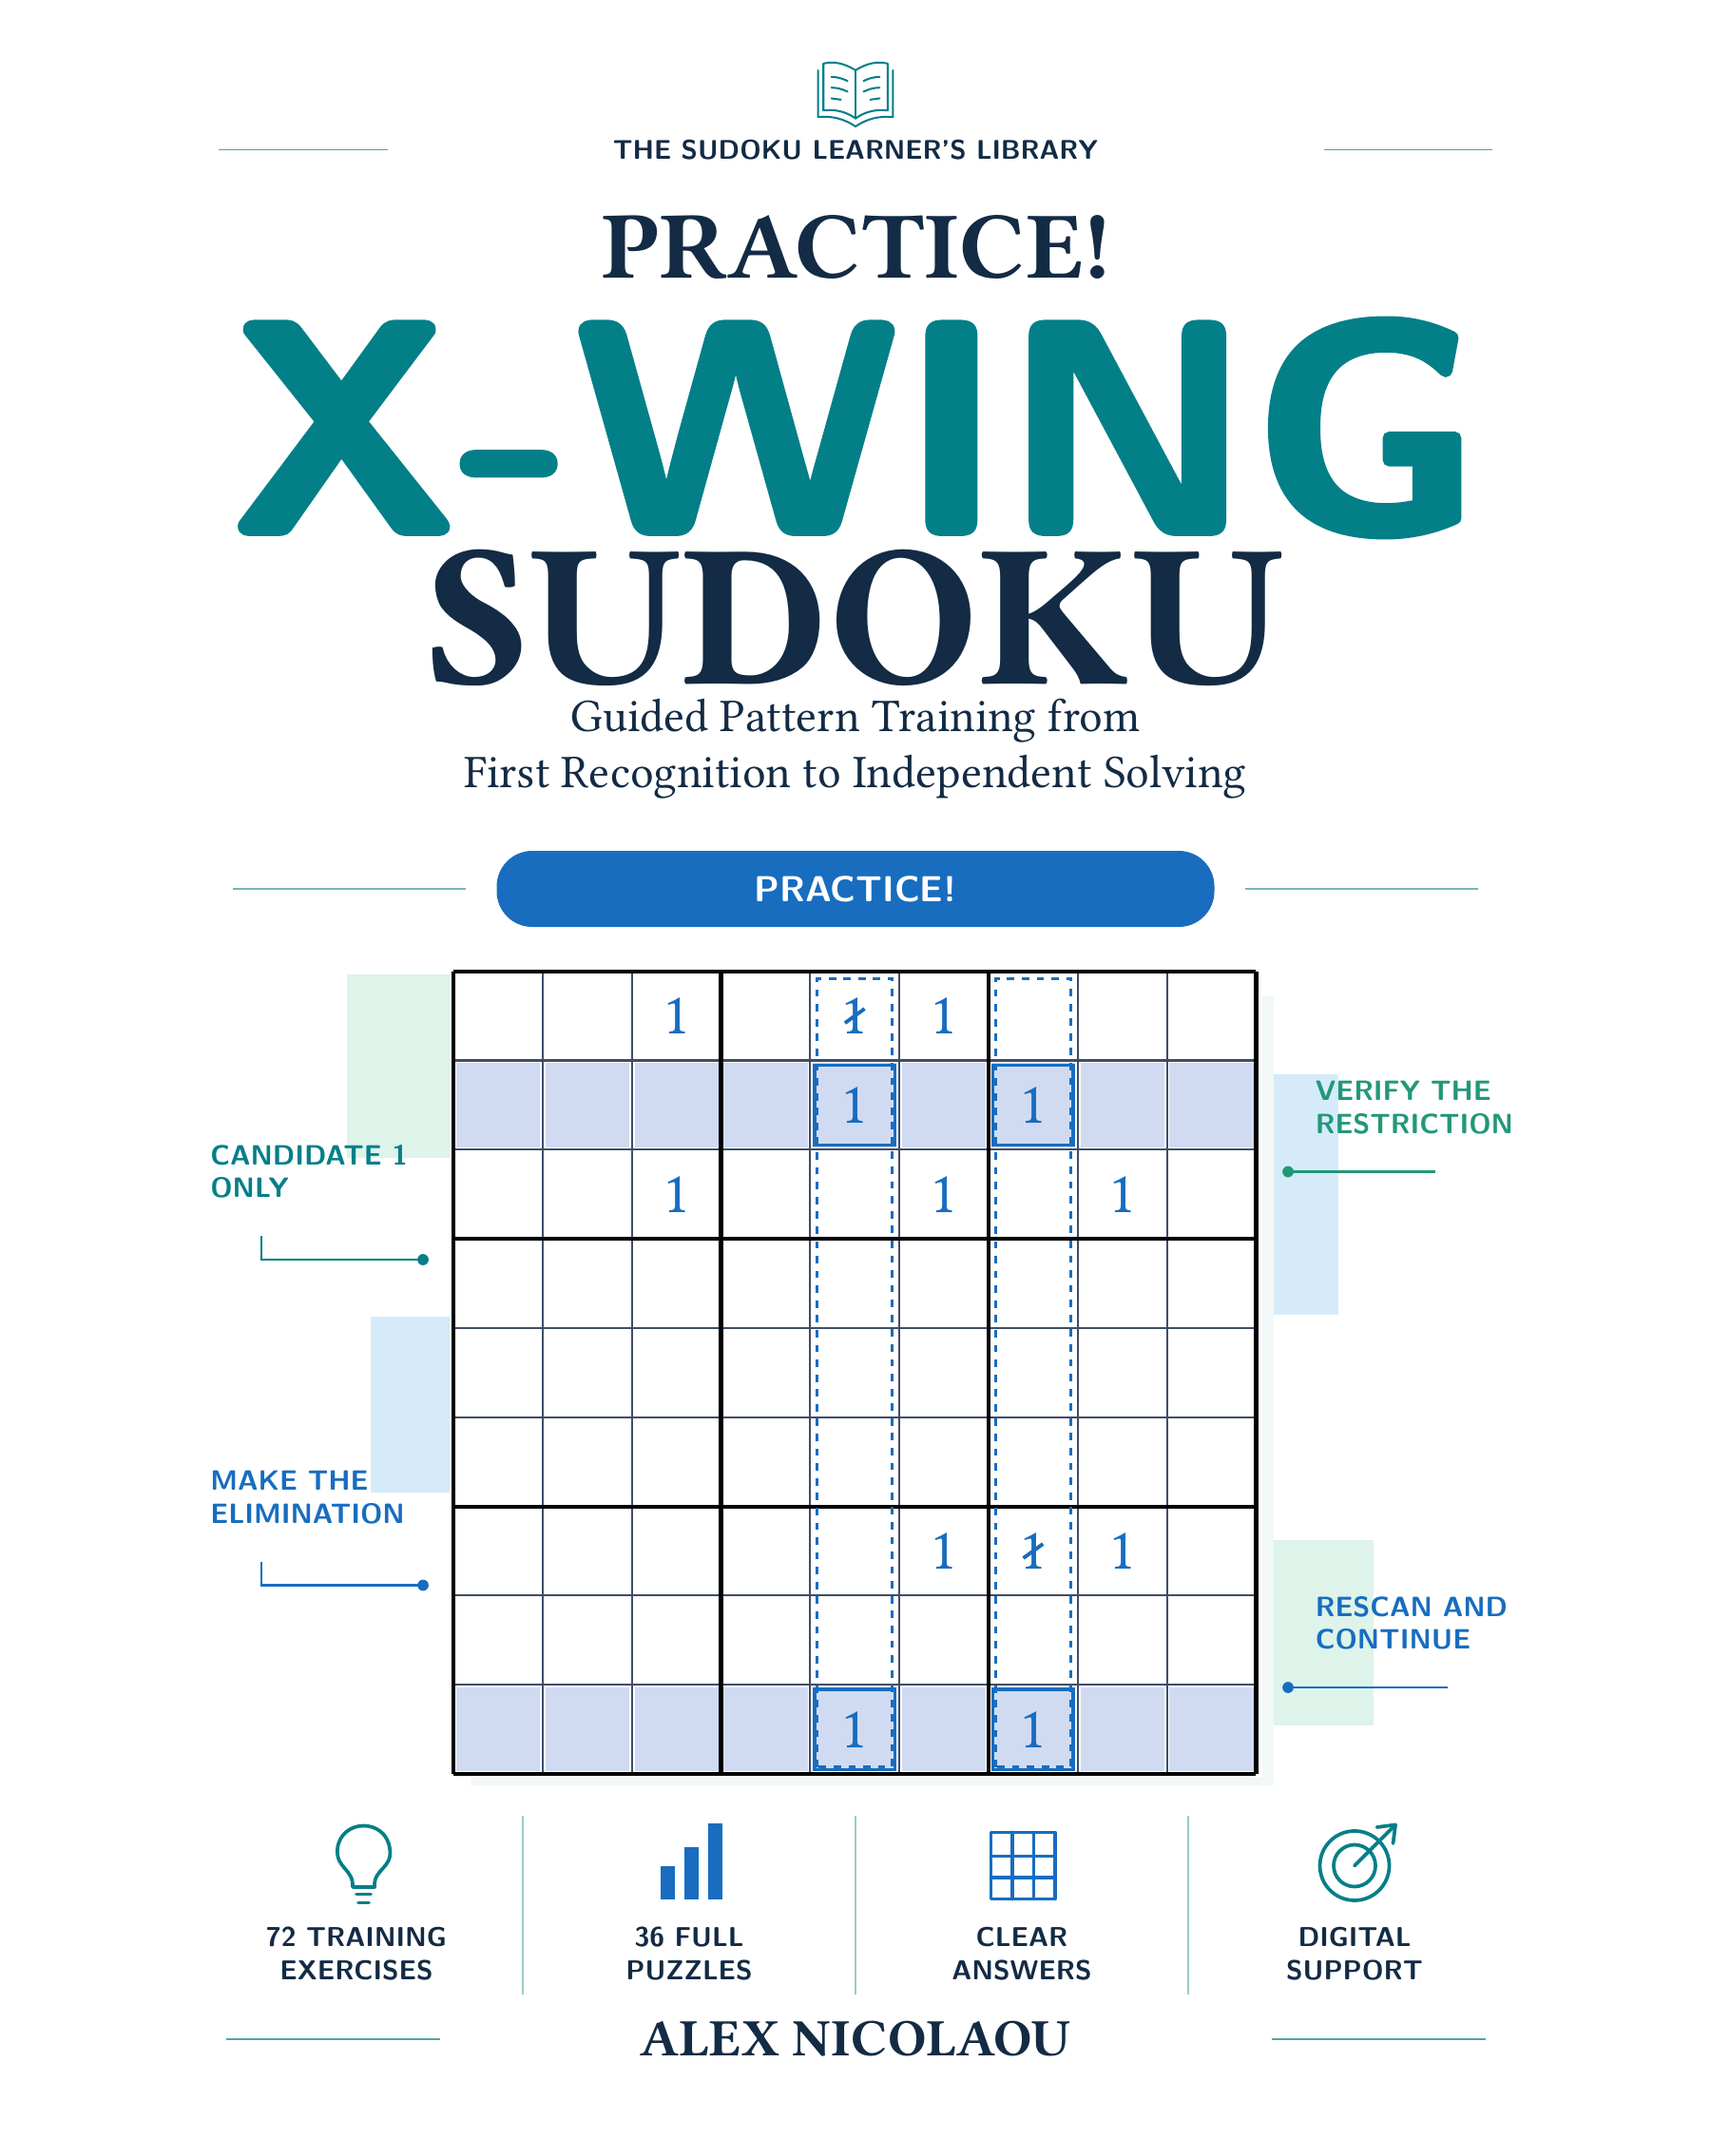
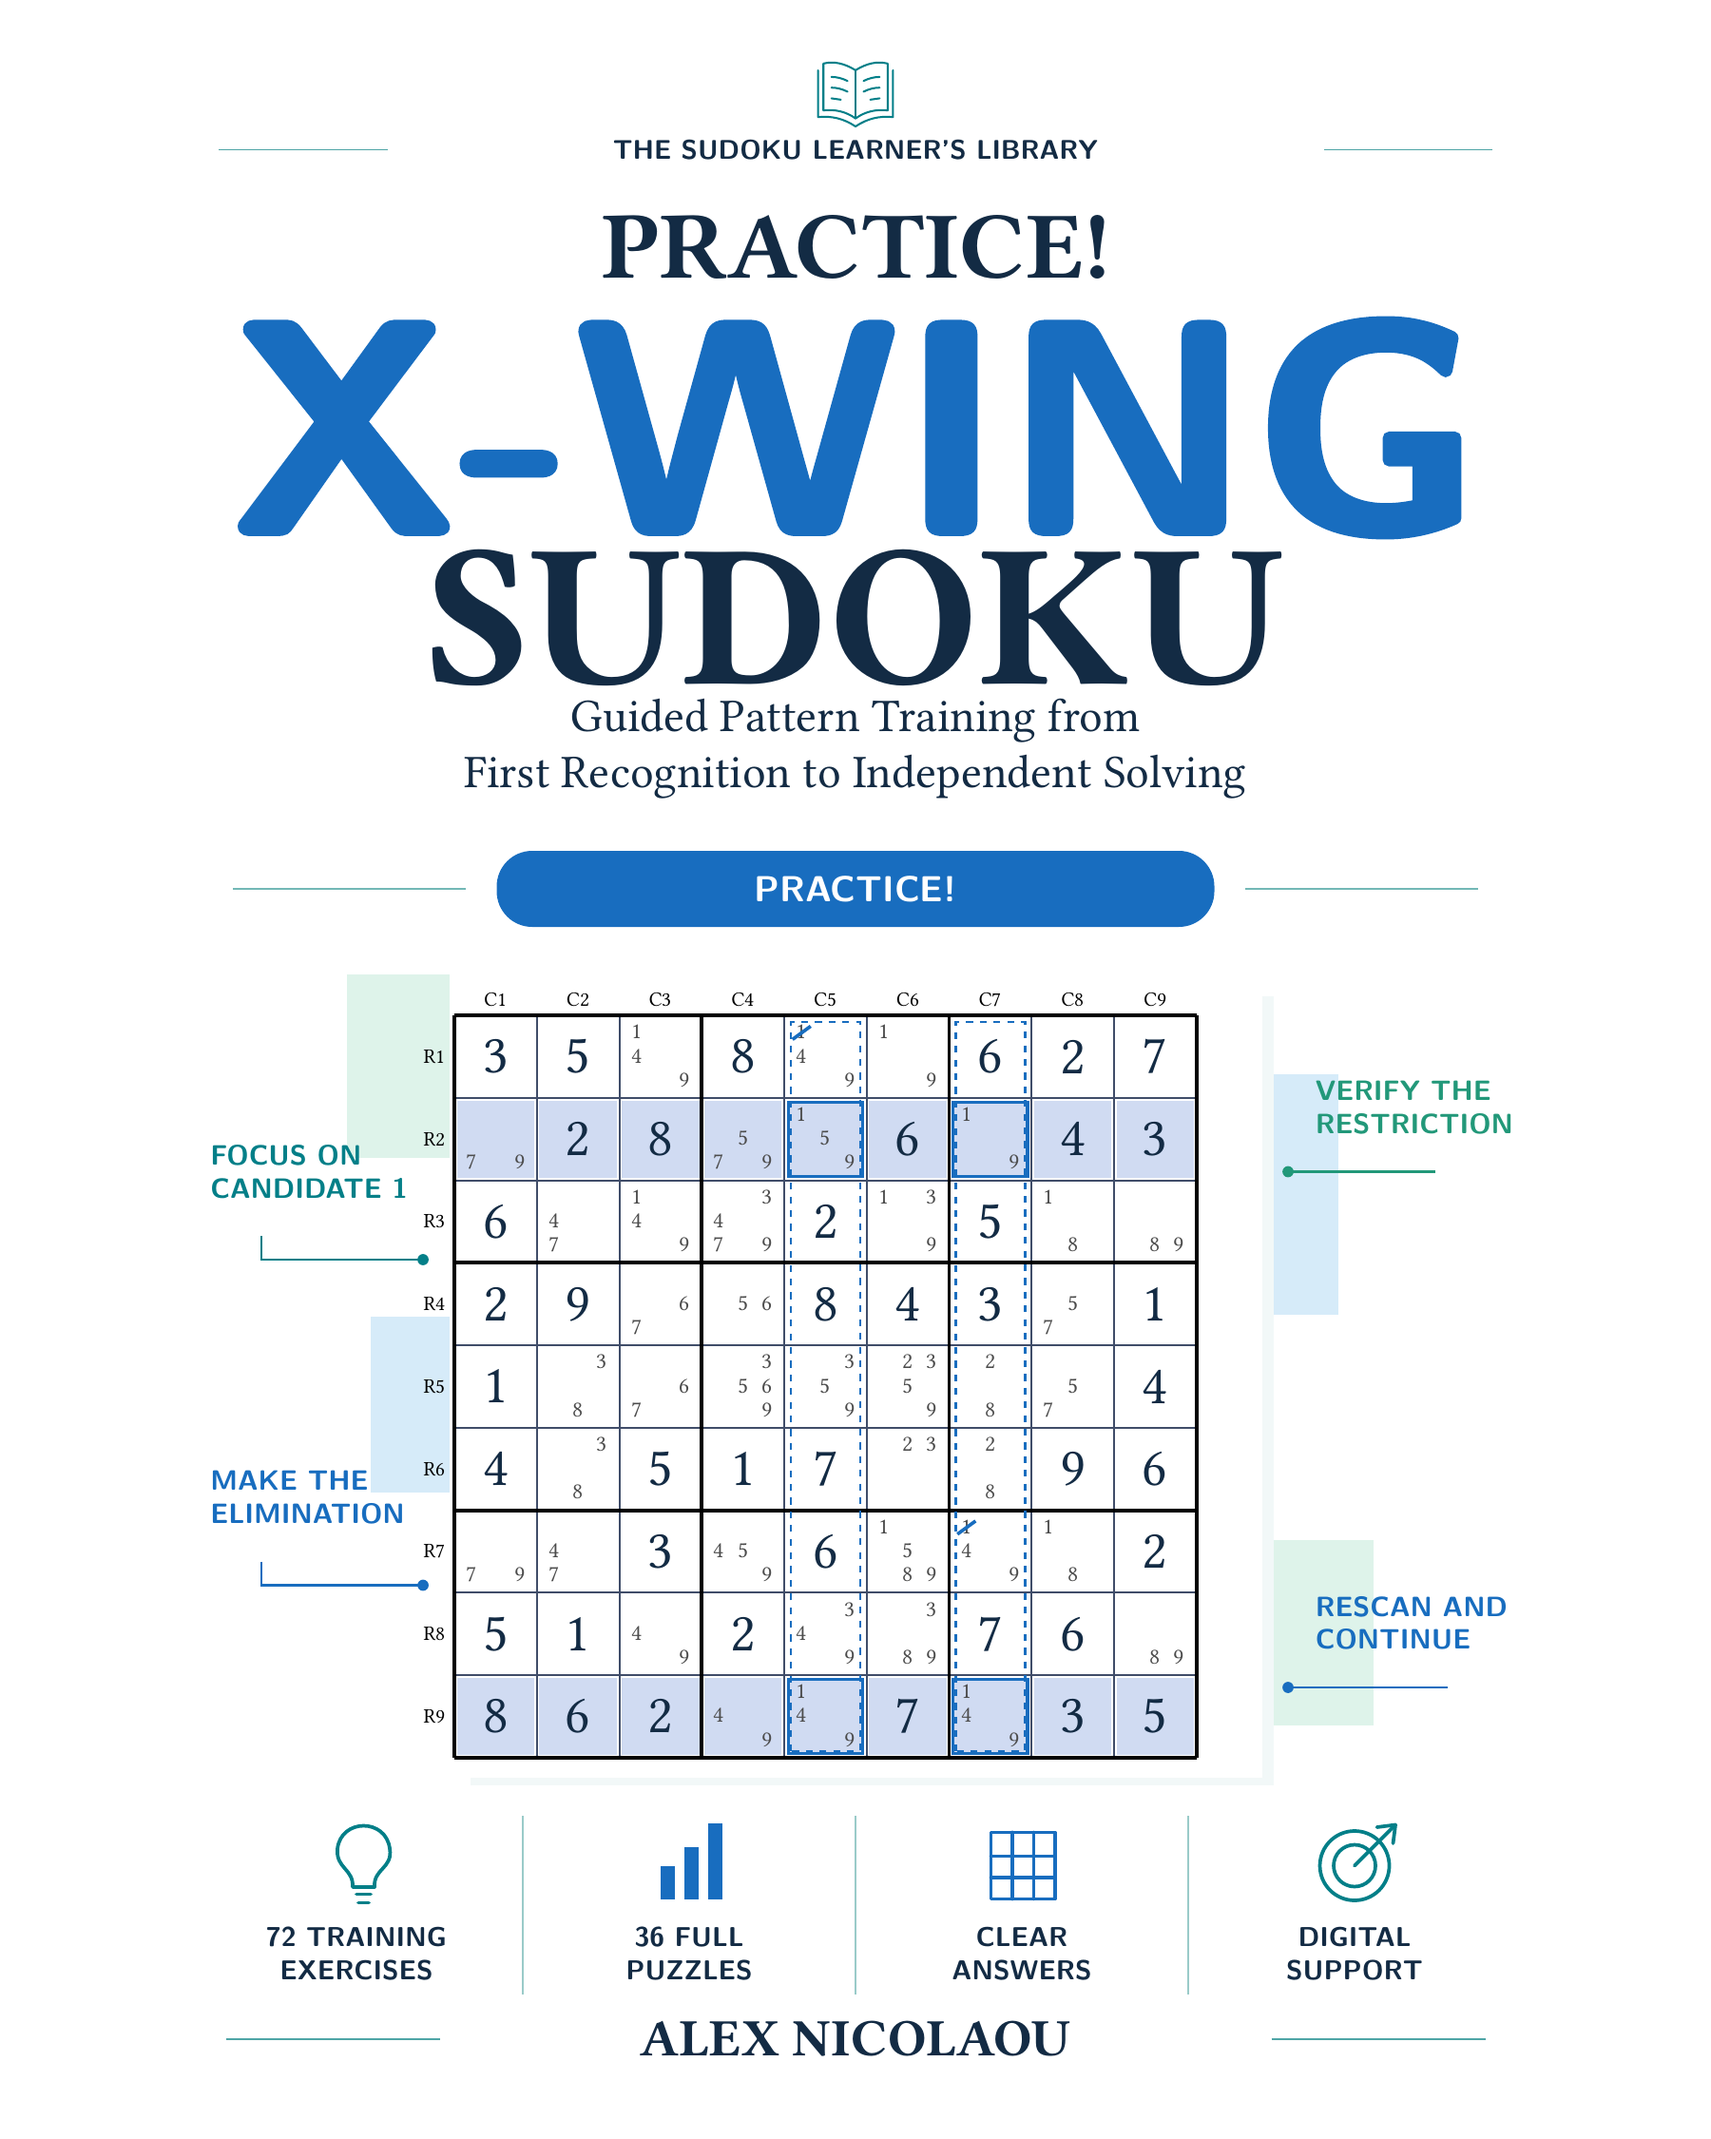
Refresh all book covers with updated series colours

Changed region(s): [[0.1244, 0.4356, 0.7467, 0.84], [0.1244, 0.1244, 0.8711, 0.2489]]

diff --git a/scripts/export-cover.py b/scripts/export-cover.py
@@ -14,7 +14,31 @@ sys.path.insert(0, str(Path.cwd() / 'tools'))
 
 out = Path(sys.argv[1])
 key = sys.argv[2]
-if key in ('candidates-done', 'start-here', 'practice-xwing'):
+if len(sys.argv) > 3 and sys.argv[3] == 'review' and key in ('candidates-done', 'start-here', 'practice-xwing'):
+    publication = f'{key}-cover'
+    folder = Path('build') / publication / 'review'
+    pdf = folder / f'{publication}-review-student.pdf'
+    manifest = json.loads((folder / 'manifest.json').read_text())
+    assert manifest['publication_id'] == publication and manifest['variant'] == 'review'
+    output = next(o for o in manifest['outputs'] if o['path'] == pdf.name)
+    assert output['projection'] == 'student' and output['pages'] == 1
+    assert hashlib.sha256(pdf.read_bytes()).hexdigest() == output['sha256'], 'Review PDF does not match build manifest'
+    assert not any(c['id'] == 'cover-dimension-guides' for c in manifest['components'])
+    generated = (folder / 'generated-tex' / (pdf.stem + '.tex')).read_text()
+    component = Path(f'components/examples/{publication}/body.tex').read_text()
+    assert component.strip() in generated, 'Review cover artwork is stale'
+    for path, digest in manifest['source']['style_sources'].items():
+        assert hashlib.sha256(Path(path).read_bytes()).hexdigest() == digest, f'Review cover style is stale: {path}'
+    dims = json.loads((Path(key.replace('-', '_')) / 'cover-dimensions.json').read_text())
+    source = {
+        'publication': publication,
+        'variant': 'review',
+        'sourceRevision': manifest['source']['git_commit'],
+        'sourceDirty': manifest['source']['dirty'],
+        'sourcePdfSha256': output['sha256'],
+        'sourceExport': str(pdf),
+    }
+elif key in ('candidates-done', 'start-here', 'practice-xwing'):
     # Print exports are frozen artifacts; verify the paired export receipt rather
     # than requiring a newer working manuscript to match an approved print file.
     from tools.cover_common import dimensions

diff --git a/README.md b/README.md
@@ -137,3 +137,16 @@ It reads `print/practice-xwing/practice-xwing-cover-print.pdf`, validates the
 paired interior and export manifest plus `practice_xwing/cover-dimensions.json`,
 and imports `src/assets/covers/practice-xwing.png` and its provenance JSON.
 The website's existing `practice` image URLs and book URL remain stable.
+
+To refresh a cover from its latest reviewed artwork before the next print export,
+append `--review` to the sync command. For example:
+
+```sh
+npm run covers:sync -- --source ../sudoku-challenges --book start-here --review
+```
+
+For the three workbook covers this verifies the review PDF's build hash, current
+artwork, style-source hashes, and sizing before extraction. The provenance record
+identifies the review build and whether its source had uncommitted changes.
+Guide and Advent already use their validated review builds by default. Omit
+`--review` to use the frozen print exports for the three workbook covers.
